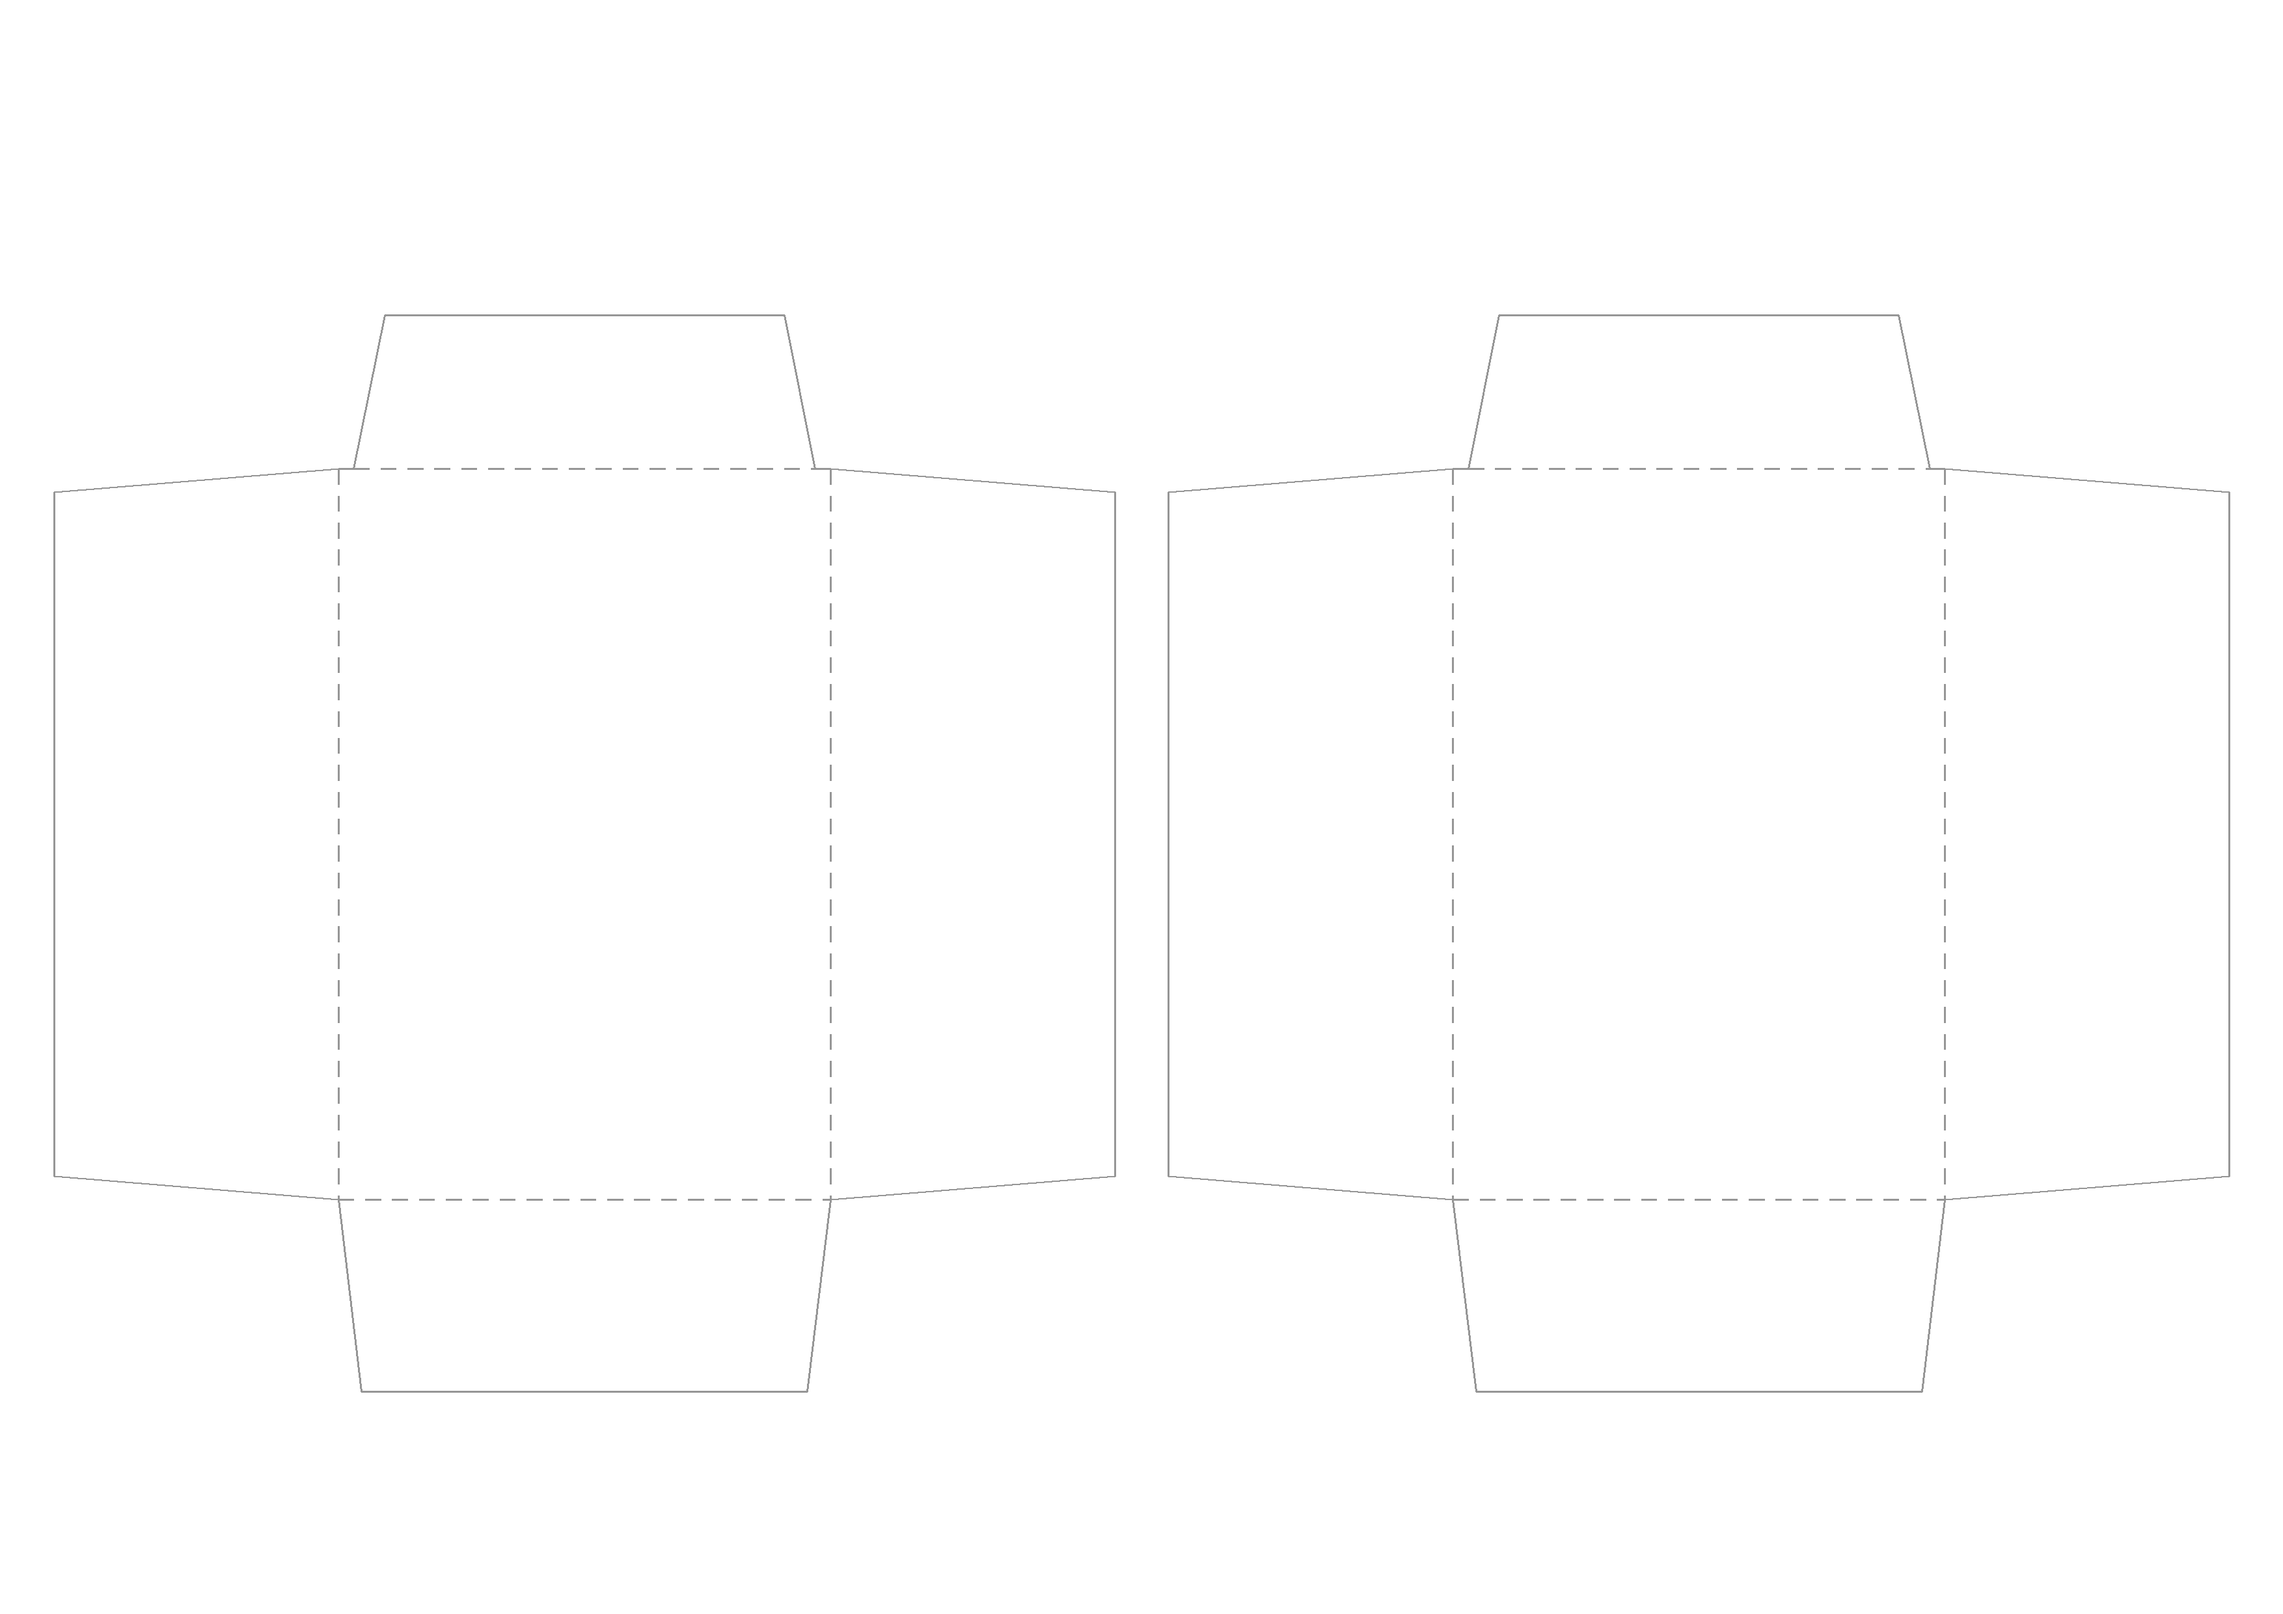
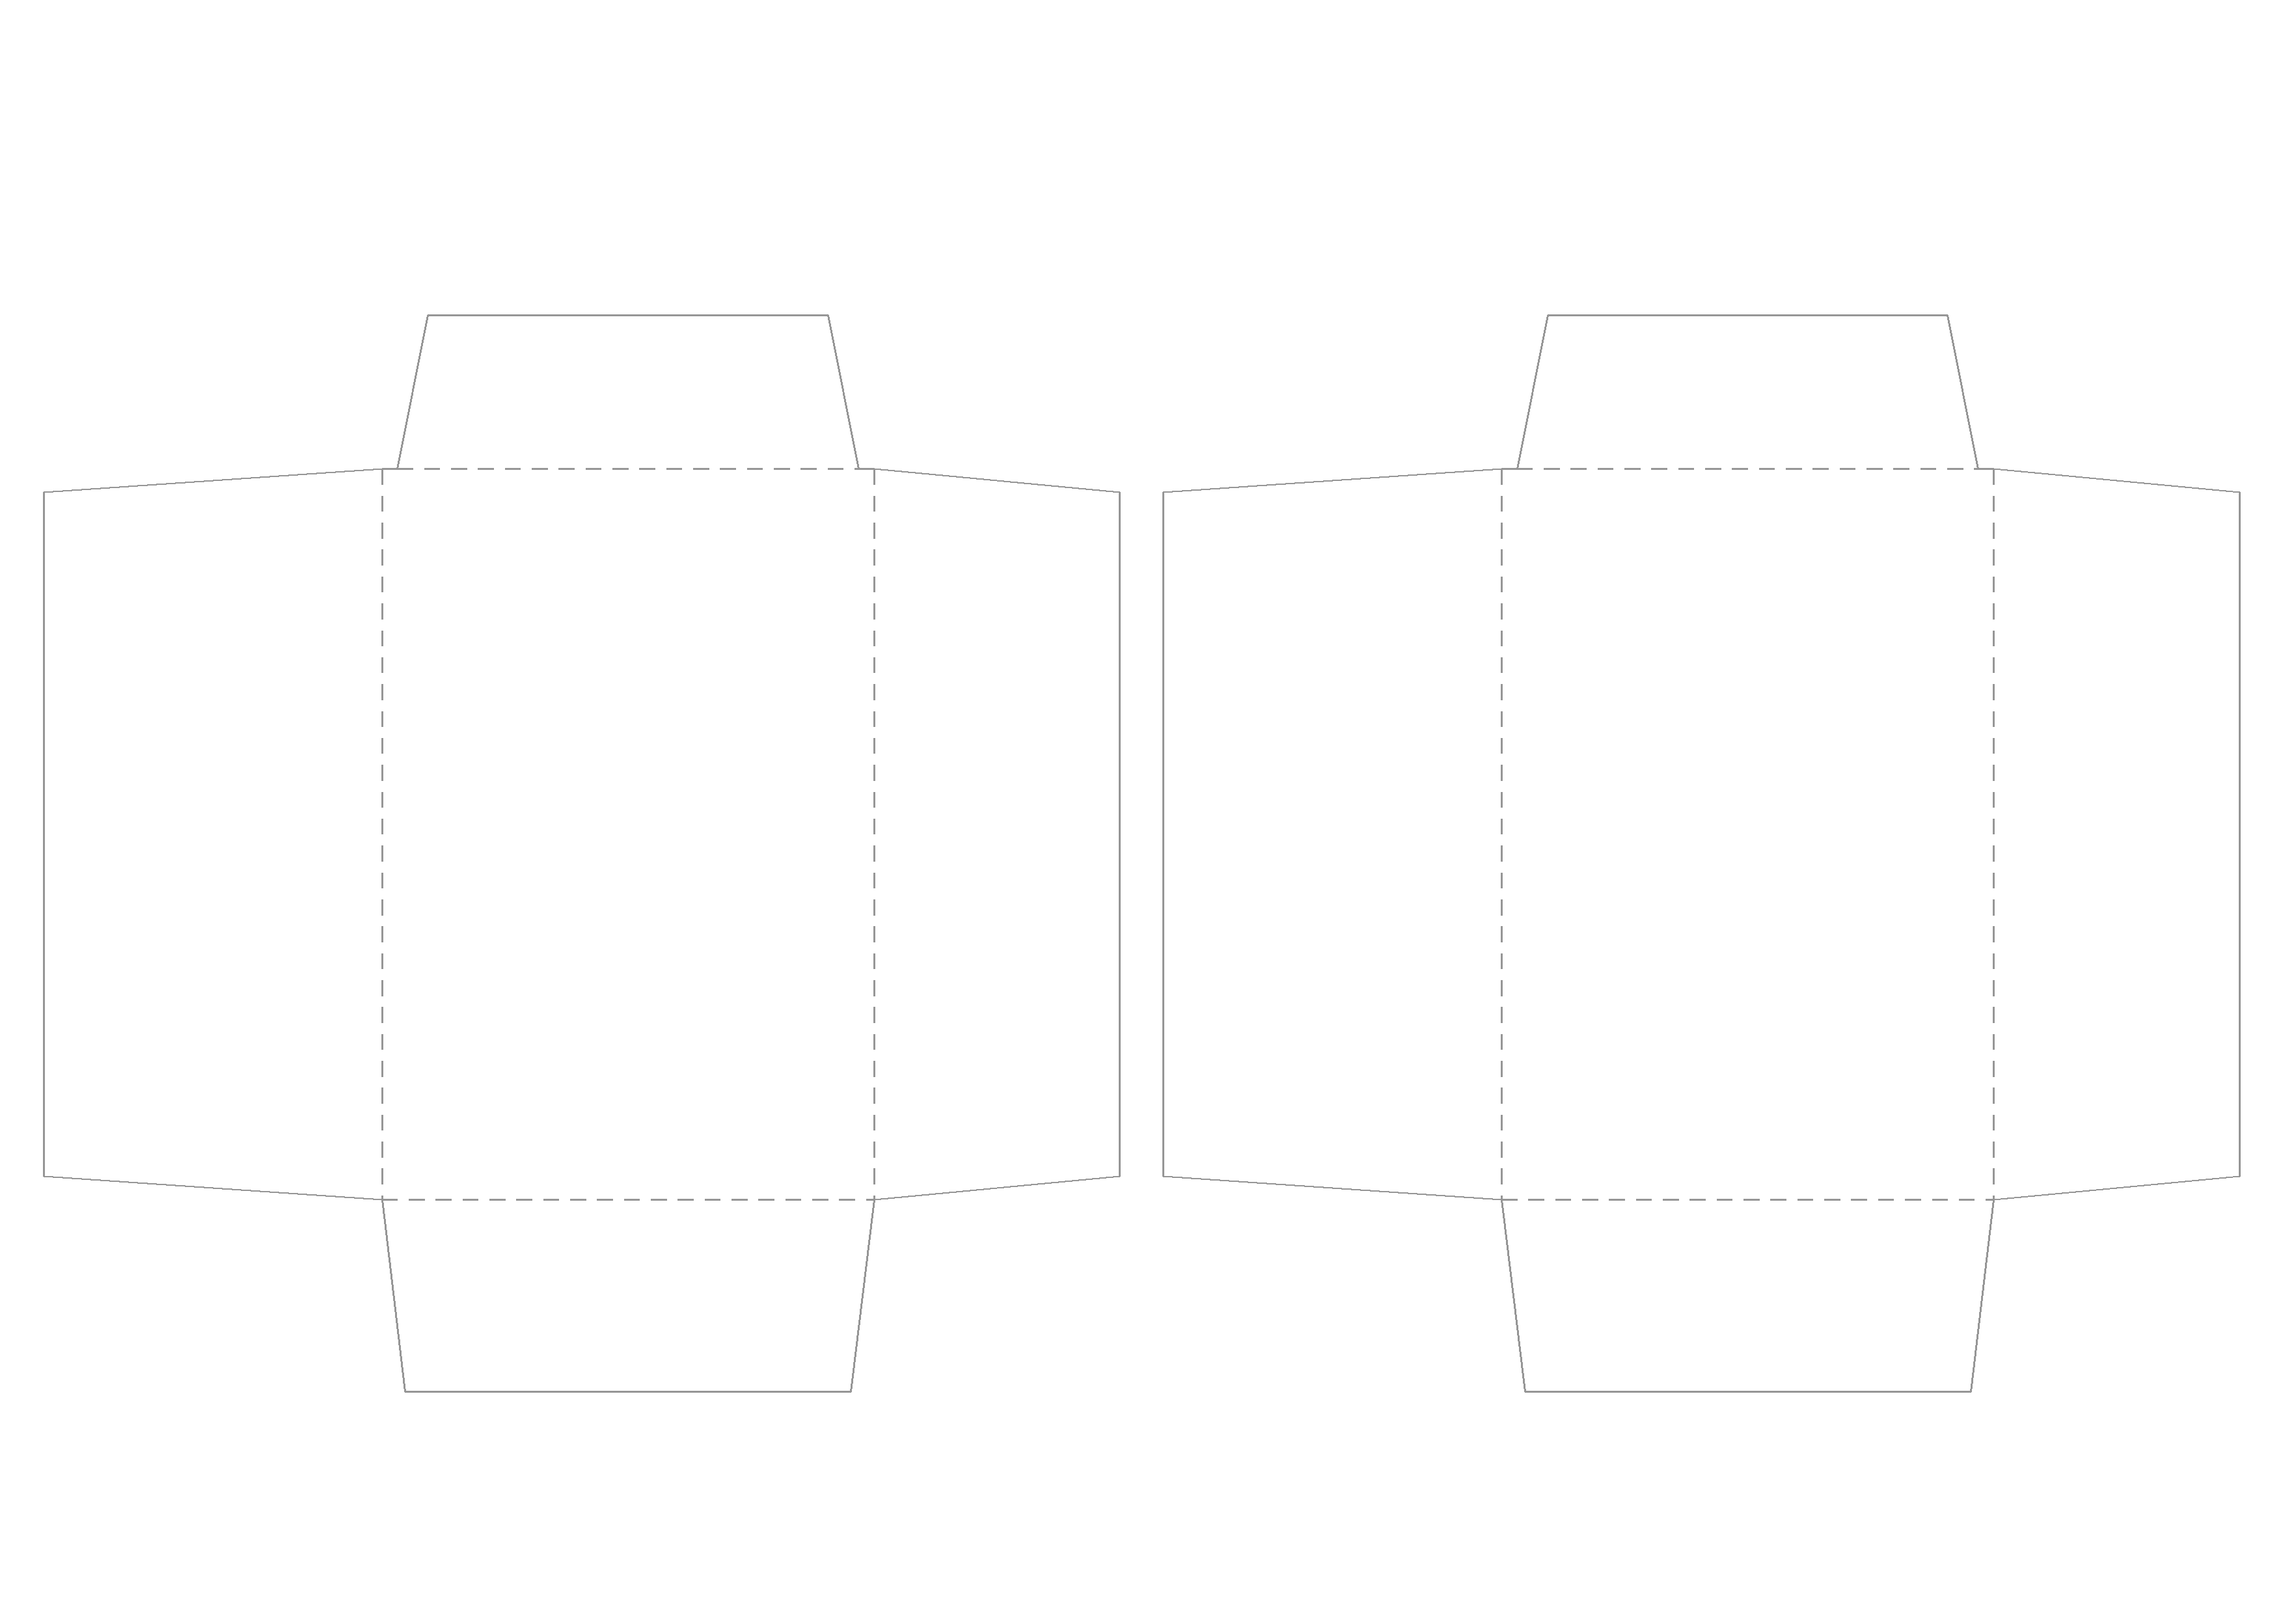
Center the back seam and widen overlap to 12mm
Claude-Session: https://claude.ai/code/session_01QWjhnwkGtLBYh5aBhsN5Vu

diff --git a/templates/pochi/make_pochi_template.py b/templates/pochi/make_pochi_template.py
@@ -24,14 +24,16 @@ DPI = 300
 PX = DPI / 25.4  # 1mmあたりのピクセル数
 
 PAGE_W, PAGE_H = 297, 210
-FLAP = 37      # 左右の折り返し(うしろで10mm重なる。6mmでは両面テープがはみ出したため広げた)
+FLAP_L = 44    # ①左の折り返し(先に折る。のりしろ付き)
+FLAP_R = 32    # ②右の折り返し(上に重ねる)。袋の幅64mmのちょうど半分なので、うしろの合わせ目が真ん中にくる
+# うしろの重なりは 44+32-64 = 12mm。10mm幅の両面テープでも1mmほどはみ出したため(ユーザーの試作)、10mm→12mmにした
 FRONT_W, FRONT_H = 64, 95
 TOP, BOTTOM = 20, 25
-NET_W, NET_H = FRONT_W + 2 * FLAP, TOP + FRONT_H + BOTTOM
+NET_W, NET_H = FLAP_L + FRONT_W + FLAP_R, TOP + FRONT_H + BOTTOM
 GAP_X = (PAGE_W - 2 * NET_W) / 3
 OFF_Y = (PAGE_H - NET_H) / 2 + 6
 SAFE = 4       # おもての安全域
-OVERLAP = 2 * FLAP - FRONT_W   # うしろで①と②が重なる幅
+OVERLAP = FLAP_L + FLAP_R - FRONT_W   # うしろで①と②が重なる幅
 GLUE_W = OVERLAP - 2           # のりしろの印の幅(重なりより少し狭くして、②の下に確実に隠す)
 LID_IN = 2     # ふた④の付け根を左右それぞれ細くする幅(差し込み式を試した名残。形として自然なので残す)
 LID_TIP = 6    # ふた④の先を左右それぞれ細くする幅
@@ -39,12 +41,12 @@ LID_TIP = 6    # ふた④の先を左右それぞれ細くする幅
 
 def outline(ox, oy):
     """切り線(外形)の頂点。ox, oyは展開図の左上(mm)。"""
-    fx0, fx1 = ox + FLAP, ox + FLAP + FRONT_W
+    fx0, fx1 = ox + FLAP_L, ox + FLAP_L + FRONT_W
     fy0, fy1 = oy + TOP, oy + TOP + FRONT_H
     return [
         (fx0 + LID_TIP, oy), (fx1 - LID_TIP, oy),     # ふた(上)。口に差し込めるよう袋より細い
         (fx1 - LID_IN, fy0), (fx1, fy0),
-        (fx1 + FLAP, fy0 + 3), (fx1 + FLAP, fy1 - 3),  # 右の折り返し
+        (fx1 + FLAP_R, fy0 + 3), (fx1 + FLAP_R, fy1 - 3),  # 右の折り返し
         (fx1, fy1),
         (fx1 - 3, oy + NET_H), (fx0 + 3, oy + NET_H),  # 底
         (fx0, fy1),
@@ -54,7 +56,7 @@ def outline(ox, oy):
 
 
 def folds(ox, oy):
-    fx0, fx1 = ox + FLAP, ox + FLAP + FRONT_W
+    fx0, fx1 = ox + FLAP_L, ox + FLAP_L + FRONT_W
     fy0, fy1 = oy + TOP, oy + TOP + FRONT_H
     return [((fx0, fy0), (fx0, fy1)), ((fx1, fy0), (fx1, fy1)),
             ((fx0 + LID_IN, fy0), (fx1 - LID_IN, fy0)), ((fx0, fy1), (fx1, fy1))]
@@ -91,7 +93,7 @@ def draw_png(guide):
     f_m = ImageFont.truetype(FONT_PATH, p(3.4))
     line = (150, 150, 150, 255)
     for ox, oy in nets():
-        fx0, fy0 = ox + FLAP, oy + TOP
+        fx0, fy0 = ox + FLAP_L, oy + TOP
         if guide:
             glue = (225, 225, 225, 255)
             # のりしろ: 左の折り返しの外側、底のふた全体
@@ -110,8 +112,8 @@ def draw_png(guide):
             d.text((p(fx0 + FRONT_W / 2), p(fy0 + 15)), "文字の範囲", font=f_m, fill=blue, anchor="mm")
             d.text((p(fx0 + FRONT_W / 2), p(fy0 + 62)), "絵を置く範囲", font=f_m, fill=blue, anchor="mm")
             gray = (110, 110, 110, 255)
-            d.text((p(ox + FLAP / 2 + 3), p(fy0 + FRONT_H / 2)), "うしろへ折る\n①", font=f_s, fill=gray, anchor="mm", align="center")
-            d.text((p(fx0 + FRONT_W + FLAP / 2), p(fy0 + FRONT_H / 2)), "うしろへ折る\n②", font=f_s, fill=gray, anchor="mm", align="center")
+            d.text((p(ox + FLAP_L / 2 + 3), p(fy0 + FRONT_H / 2)), "うしろへ折る\n①", font=f_s, fill=gray, anchor="mm", align="center")
+            d.text((p(fx0 + FRONT_W + FLAP_R / 2), p(fy0 + FRONT_H / 2)), "うしろへ折る\n②", font=f_s, fill=gray, anchor="mm", align="center")
             d.text((p(ox + 3.2), p(fy0 + 12)), "の\nり", font=f_s, fill=gray, anchor="mm", align="center")
             d.text((p(fx0 + FRONT_W / 2), p(fy0 + FRONT_H + 12)), "のりしろ ③うしろへ折って貼る", font=f_s, fill=gray, anchor="mm")
             d.text((p(fx0 + FRONT_W / 2), p(oy + 10)), "ふた ④", font=f_s, fill=gray, anchor="mm")
@@ -142,7 +144,7 @@ def draw_pdf(path):
     c.drawCentredString(*xy(PAGE_W / 2, 9), "ぽち袋の型(A4横・2枚どり) 仕上がり 64×95mm ── 実線=切る 点線=折る 灰色=のりしろ")
     c.drawCentredString(*xy(PAGE_W / 2, PAGE_H - 7), "①②の順にうしろへ折り、①ののりしろに②を貼る。③を折り上げて貼る。④はシールなどで留める。")
     for ox, oy in nets():
-        fx0, fy0 = ox + FLAP, oy + TOP
+        fx0, fy0 = ox + FLAP_L, oy + TOP
         c.setFillGray(0.88)
         c.rect(*xy(ox + 0.4, fy0 + FRONT_H - 3.4), GLUE_W * mm, (FRONT_H - 6.8) * mm, stroke=0, fill=1)
         pth = c.beginPath()
@@ -166,8 +168,8 @@ def draw_pdf(path):
             c.line(*xy(*a), *xy(*b))
         c.setFillGray(0.35)
         c.setFont("IPAG", 6)
-        c.drawCentredString(*xy(ox + FLAP / 2 + 3, fy0 + FRONT_H / 2), "① うしろへ折る")
-        c.drawCentredString(*xy(fx0 + FRONT_W + FLAP / 2, fy0 + FRONT_H / 2), "② うしろへ折る")
+        c.drawCentredString(*xy(ox + FLAP_L / 2 + 3, fy0 + FRONT_H / 2), "① うしろへ折る")
+        c.drawCentredString(*xy(fx0 + FRONT_W + FLAP_R / 2, fy0 + FRONT_H / 2), "② うしろへ折る")
         c.drawCentredString(*xy(fx0 + FRONT_W / 2, fy0 + FRONT_H + 12), "③ のりしろ")
         c.drawCentredString(*xy(fx0 + FRONT_W / 2, oy + 10), "④ ふた")
     c.showPage()
@@ -181,7 +183,7 @@ def draw_print_png():
     cut = (120, 120, 120, 255)   # 切り線: 印刷してはっきり見える灰色(薄すぎて切る場所が分からなかったため濃くした)
     mark = (120, 120, 120, 255)
     for ox, oy in nets():
-        fx0, fx1 = ox + FLAP, ox + FLAP + FRONT_W
+        fx0, fx1 = ox + FLAP_L, ox + FLAP_L + FRONT_W
         fy0, fy1 = oy + TOP, oy + TOP + FRONT_H
         # のりしろ(①の外側の端)。②を貼ると下に隠れるので、印刷しても見えない
         d.rectangle([p(ox + 0.6), p(fy0 + 3.6), p(ox + 0.6 + GLUE_W), p(fy1 - 3.6)], fill=(235, 235, 235, 255))
@@ -194,12 +196,12 @@ def draw_print_png():
         layer.putalpha(Image.composite(Image.new("L", img.size, 0), layer.getchannel("A"), inside))
         img.alpha_composite(layer)
         # 折り線の目印: 型の外側に短い線だけ(袋の上には線を引かない)
-        L = 3.0
+        L = 2.5   # 用紙の端に近いので短め(型の外0.8mmから2.5mm)
         ticks = [
-            ((fx0, oy - 1), (fx0, oy - 1 - L)), ((fx1, oy - 1), (fx1, oy - 1 - L)),          # 左右の折り目(上端の外)
-            ((fx0, oy + NET_H + 1), (fx0, oy + NET_H + 1 + L)), ((fx1, oy + NET_H + 1), (fx1, oy + NET_H + 1 + L)),
-            ((ox - 1, fy0), (ox - 1 - L, fy0)), ((ox + NET_W + 1, fy0), (ox + NET_W + 1 + L, fy0)),  # 上下の折り目(左右の外)
-            ((ox - 1, fy1), (ox - 1 - L, fy1)), ((ox + NET_W + 1, fy1), (ox + NET_W + 1 + L, fy1)),
+            ((fx0, oy - 0.8), (fx0, oy - 0.8 - L)), ((fx1, oy - 0.8), (fx1, oy - 0.8 - L)),          # 左右の折り目(上端の外)
+            ((fx0, oy + NET_H + 0.8), (fx0, oy + NET_H + 0.8 + L)), ((fx1, oy + NET_H + 0.8), (fx1, oy + NET_H + 0.8 + L)),
+            ((ox - 0.8, fy0), (ox - 0.8 - L, fy0)), ((ox + NET_W + 0.8, fy0), (ox + NET_W + 0.8 + L, fy0)),  # 上下の折り目(左右の外)
+            ((ox - 0.8, fy1), (ox - 0.8 - L, fy1)), ((ox + NET_W + 0.8, fy1), (ox + NET_W + 0.8 + L, fy1)),
         ]
         for a, b in ticks:
             d.line([(p(a[0]), p(a[1])), (p(b[0]), p(b[1]))], fill=mark, width=p(0.3))

diff --git a/templates/pochi/README.md b/templates/pochi/README.md
@@ -10,7 +10,7 @@
 
 ## 寸法
 - 仕上がり: 64×95mm(一万円札を三つ折り、約53×76mmにして入る)
-- 左右の折り返し: 37mmずつ(うしろで10mm重なる)
+- 左右の折り返し: ①左44mm、②右32mm(うしろで12mm重なる。②の端=合わせ目が、うしろの真ん中にくる)
 - ふた(上): 20mm、のりしろ(下): 25mm
 - おもての安全域: 端から4mm内側(絵と文字はこの内側に置く)
 
@@ -81,3 +81,4 @@
 - うしろの重なりが6mmでは狭く、極細の両面テープでもはみ出した(猫の試作)。→ 左右の折り返しを35mm→37mmにして、重なりを10mmにした。のりしろの印も8mm幅にした。袋の表の位置は、1枚目が約0.7mm左、2枚目が約0.7mm右にずれるだけなので、絵の置き直しはいらない(安全域4mmの中に収まる)。
 - 重なり10mmの型で試作(柴犬)。幅10mmの両面テープ(ニチバン ナイスタック NW-K10)で、はみ出さずに貼れた(ユーザー確認)。**型はこれで確定。**
 - 説明書の工程写真: 1〜4はユーザーが撮った写真(`photos/step1〜4.jpg`)。写真は切り取らず、縦横比を保って正方形の枠に収める。5はまだ写真がないので、文字だけ(写真を `photos/step5.jpg` に置けば自動で入る)。
+- コピー用紙の試作で、10mm幅の両面テープが1mmほどはみ出し、うしろの合わせ目も真ん中からずれていた(ユーザー確認)。→ 左右の折り返しを①44mm・②32mmに変えた。重なりは12mm、合わせ目はうしろの真ん中。**袋の表の位置が右へ約6mm動いたので、Canvaの絵と文字は新しい下敷きに合わせて置き直す。**
